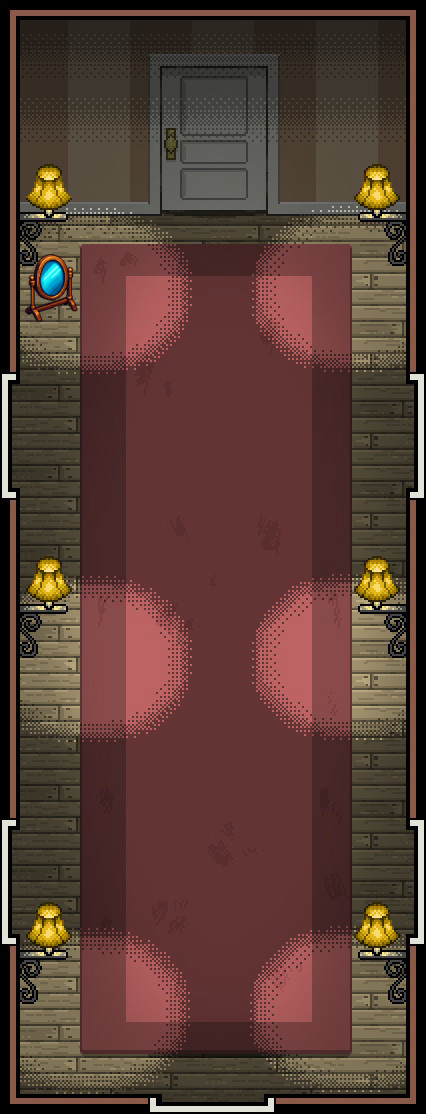
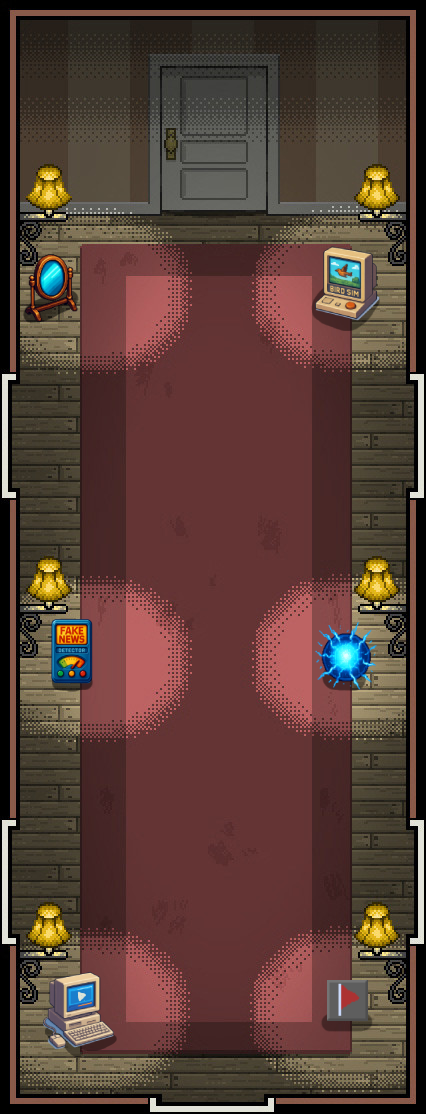
Implemented 5 new objects and their links

diff --git a/src/portfolio-game/game.js b/src/portfolio-game/game.js
@@ -42,19 +42,59 @@ var statues = [
       text: "Hey a mirror! Maybe I can see what I look like in it.", 
       url: 'https://www.linkedin.com/in/radmehr-vafadar-3b89391a1/',
       interactPadding: 10 },
+
+   { 
+      id: "Boids-Algorithm", 
+      rect: { x1: 204, y1: 108, x2: 154, y2: 154 }, 
+      text: "A bird simulation? Maybe I can learn something from it.", 
+      url: 'https://radmehrvafadar.github.io/Boids-algorithm-demo/',
+      interactPadding: 10 },
+
+
+   { 
+      id: "Fake News", 
+      rect: { x1: 0, y1: 320, x2: 40, y2: 362}, 
+      text: "An AI fake news detector? I wonder how it works.", 
+      url: 'https://github.com/RadmehrVafadar/AI-fake-news-detector',
+      interactPadding: 10 },
+
+   { 
+      id: "Music Ord", 
+      rect: { x1: 204, y1: 320, x2: 158, y2: 368}, 
+      text: "A magical orb that visualises my favourite songs.", 
+      url: 'https://github.com/RadmehrVafadar/voiceEmotionVisualizer',
+      interactPadding: 10 },
+
+   { 
+      id: "Distributed-Video-Player", 
+      rect: { x1: 0, y1: 512, x2: 54, y2: 572}, 
+      text: "A magical orb that visualises my favourite songs.", 
+      url: 'https://github.com/RadmehrVafadar/Distributed-Video-Streaming',
+      interactPadding: 10 },
+   
+   { 
+      id: "MineSweeper", 
+      rect: { x1: 204, y1: 522, x2: 160, y2: 556}, 
+      text: "A magical orb that visualises my favourite songs.", 
+      url: 'https://github.com/RadmehrVafadar/mine-sweeper',
+      interactPadding: 10 },
+   
 ];
 
 function pointInRect(px, py, rect) {
-   return px >= rect.x1 && px <= rect.x2 && py >= rect.y1 && py <= rect.y2;
+   var xMin = Math.min(rect.x1, rect.x2);
+   var xMax = Math.max(rect.x1, rect.x2);
+   var yMin = Math.min(rect.y1, rect.y2);
+   var yMax = Math.max(rect.y1, rect.y2);
+   return px >= xMin && px <= xMax && py >= yMin && py <= yMax;
 }
 
 function inflateRect(rect, padding) {
-   return {
-      x1: rect.x1 - padding,
-      y1: rect.y1 - padding,
-      x2: rect.x2 + padding,
-      y2: rect.y2 + padding,
-   };
+   var xMin = Math.min(rect.x1, rect.x2) - padding;
+   var xMax = Math.max(rect.x1, rect.x2) + padding;
+   var yMin = Math.min(rect.y1, rect.y2) - padding;
+   var yMax = Math.max(rect.y1, rect.y2) + padding;
+   return { x1: xMin, y1: yMin, x2: xMax, y2: yMax };
 }
 
 function isCollidingWithAnyStatue(nextX, nextY) {
@@ -130,10 +170,9 @@ const placeCharacter = () => {
 
 
 
-   //Standing points (gives placement to text pop ups)
-   //Now using grid-based coordinates that scale properly
-   
-   if (interact) {
+   // Tool used to find coordinates of player
+   // to use remove '&& false' and press spacebar
+   if (interact && false) {
       console.log([x,y])
    }
    
